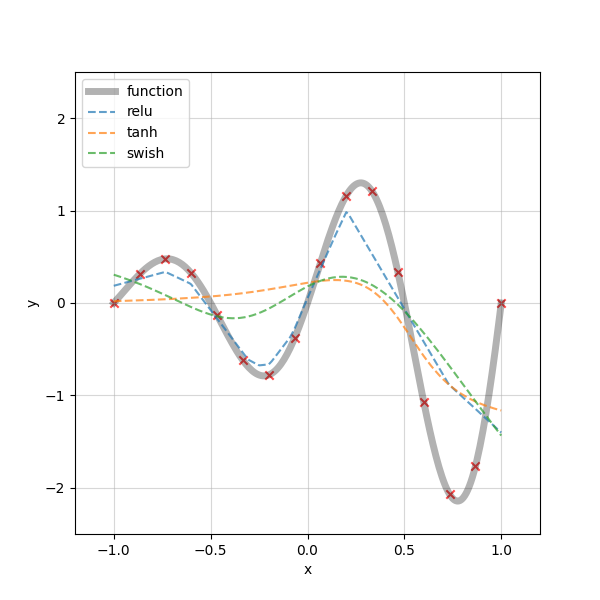
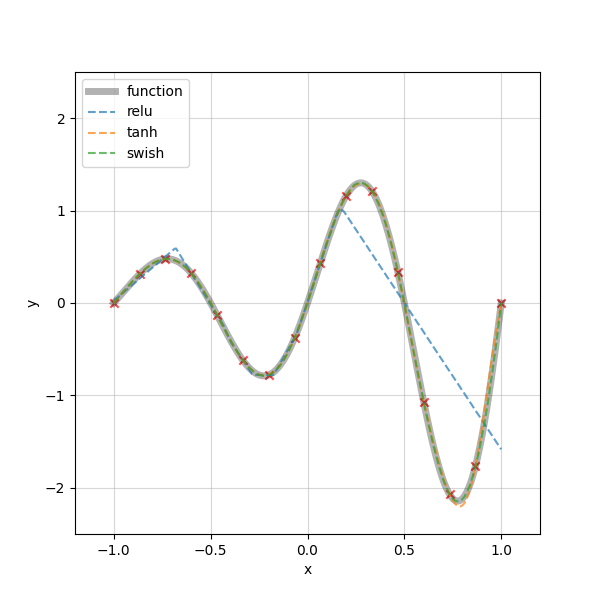
fix dnn

diff --git a/00_tf2/main.py b/00_tf2/main.py
@@ -17,7 +17,7 @@ def main():
     config_gpu(gpu_flg)
 
     # problem setup
-    p_id = 2
+    p_id = 1
     xmin = -1.
     xmax =  1.
     nx   = 2 ** 8
